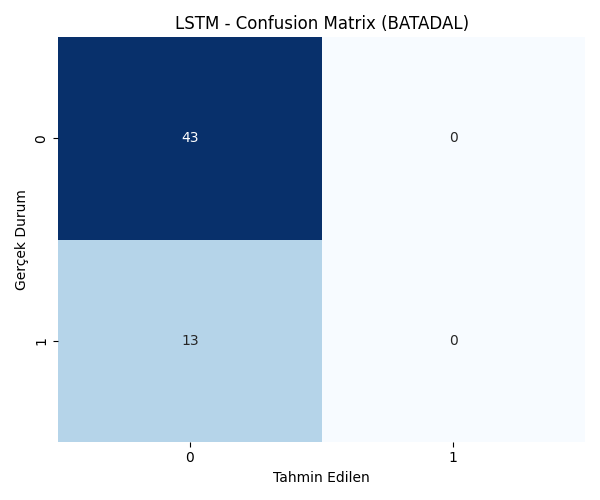
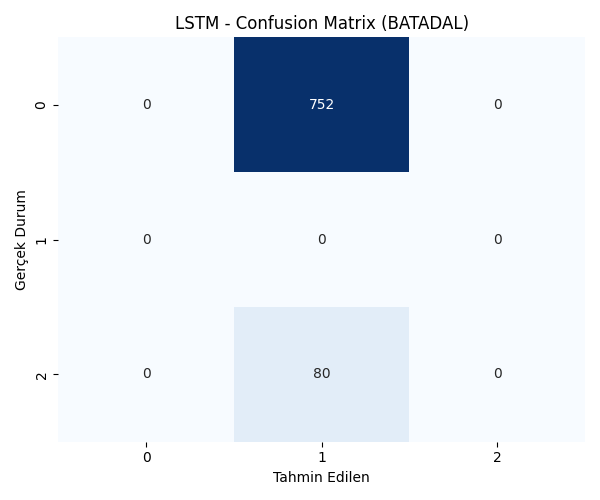
Evaluation ve Visualizer modüllerindeki -999 etiket (multiclass) hatasi cozuldu

diff --git a/src/visualizer.py b/src/visualizer.py
@@ -10,8 +10,11 @@ class Visualizer:
         os.makedirs(self.output_dir, exist_ok=True)
         
     def plot_confusion_matrix(self, y_true, y_pred_prob, model_name, dataset_name):
-        y_pred = (y_pred_prob > 0.5).astype(int)
-        cm = confusion_matrix(y_true, y_pred)
+        # Gerçek değerleri ve tahminleri 0-1 aralığına zorluyoruz (-999 hatasını önlemek için)
+        y_true_bin = (np.array(y_true) > 0.5).astype(int)
+        y_pred = (np.array(y_pred_prob) > 0.5).astype(int)
+        
+        cm = confusion_matrix(y_true_bin, y_pred)
         
         plt.figure(figsize=(6, 5))
         sns.heatmap(cm, annot=True, fmt="d", cmap="Blues", cbar=False)
@@ -23,7 +26,10 @@ class Visualizer:
         plt.close()
 
     def plot_roc_curve(self, y_true, y_pred_prob, model_name, dataset_name):
-        fpr, tpr, _ = roc_curve(y_true, y_pred_prob)
+        # ROC eğrisi için de gerçek değerleri -999'dan kurtarıp 0-1 yapıyoruz
+        y_true_bin = (np.array(y_true) > 0.5).astype(int)
+        
+        fpr, tpr, _ = roc_curve(y_true_bin, y_pred_prob)
         roc_auc = auc(fpr, tpr)
         
         plt.figure(figsize=(6, 5))

diff --git a/src/evaluation.py b/src/evaluation.py
@@ -9,8 +9,11 @@ class Evaluator:
         self.noise_ratio = self.config['experiment']['noise_ratio']
 
     def calculate_metrics(self, y_true, y_pred_prob, model_name, scenario="Orijinal"):
-        """Modelin tahmin olasılıklarını 0 veya 1'e çevirip temel metrikleri hesaplar."""
-        y_pred = (y_pred_prob > 0.5).astype(int)
+        """Modelin tahmin olasılıklarını ve gerçek değerleri 0 veya 1'e çevirip metrikleri hesaplar."""
+        
+        # Hem tahminleri hem de gerçek değerleri KESİN olarak 0 ve 1 (integer) formatına zorluyoruz
+        y_pred = (np.array(y_pred_prob) > 0.5).astype(int)
+        y_true = (np.array(y_true) > 0.5).astype(int) 
         
         acc = accuracy_score(y_true, y_pred)
         prec = precision_score(y_true, y_pred, zero_division=0)